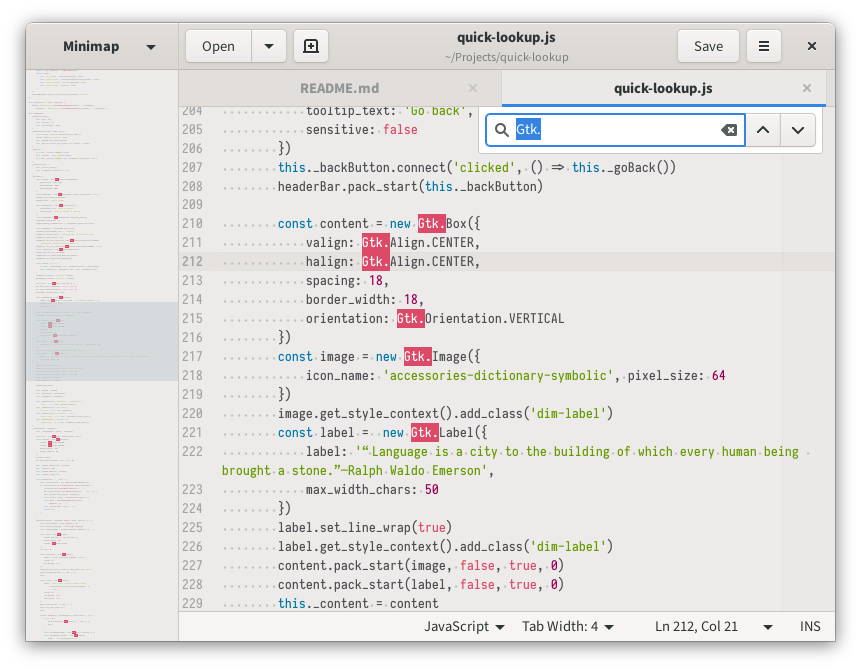
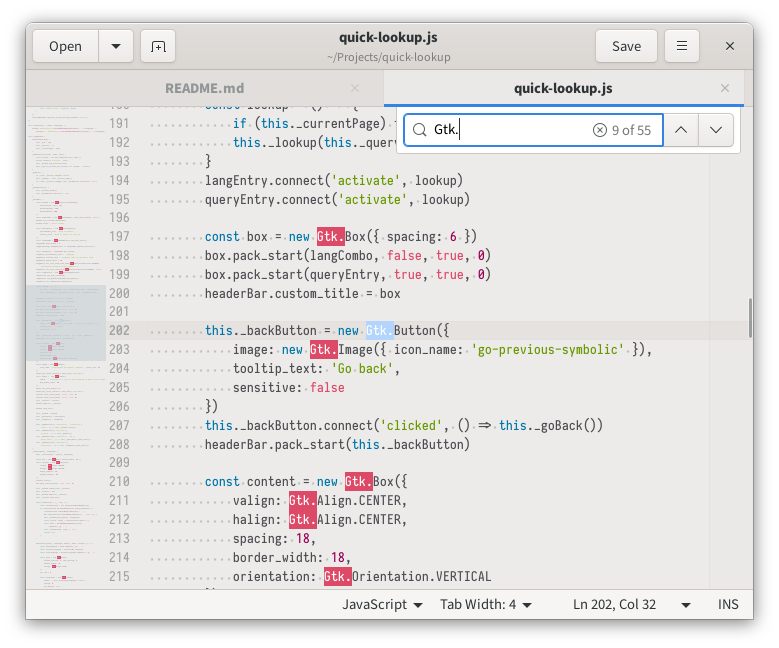
Put minimap in GeditTab instead of the side panel

diff --git a/restore_minimap.py b/restore_minimap.py
@@ -1,26 +1,22 @@
-from gi.repository import GObject, Gedit, GtkSource, Pango
+from gi.repository import GObject, Gedit, GtkSource, Gtk
 
-class RestoreMinimapPlugin(GObject.Object, Gedit.WindowActivatable):
+class RestoreMinimapPlugin(GObject.Object, Gedit.ViewActivatable):
 
-    window = GObject.property(type=Gedit.Window)
+    view = GObject.property(type=Gedit.View)
 
     def __init__(self):
         GObject.Object.__init__(self)
 
     def do_activate(self):
+        self.tab = self.view.get_parent().get_parent().get_parent()
+        self.tab.set_orientation(Gtk.Orientation.HORIZONTAL)
         self.source_map = GtkSource.Map()
+        self.source_map.set_view(self.view)
         self.source_map.show()
-        self.panel = self.window.get_side_panel()
-        self.panel.add_titled(self.source_map, 'minimap', 'Minimap')
-        self._update_view()
+        self.tab.pack_end(self.source_map, False, True, 0)
 
     def do_deactivate(self):
-        self.panel.remove(self.source_map)
+        self.tab.remove(self.source_map)
 
     def do_update_state(self):
-        self._update_view()
-
-    def _update_view(self):
-        view = self.window.get_active_view()
-        if view is not None:
-            self.source_map.set_view(view)
+        pass

diff --git a/README.md b/README.md
@@ -20,9 +20,7 @@ git clone https://github.com/johnfactotum/gedit-restore-minimap.git restore-mini
 ```
 
 ## Known Issues
-* The minimap is now rendered in the side panel, which means:
-  * You can't use other side panels and the minimap at the same time.
-  * The minimap is displayed on the left, which can be odd.
+* The minimap is displayed on the left, which can be a bit odd.
 * It'd be nice if the minimap can use Gnome Builder's block font, but I couldn't figure out how.
 
 ## See also
